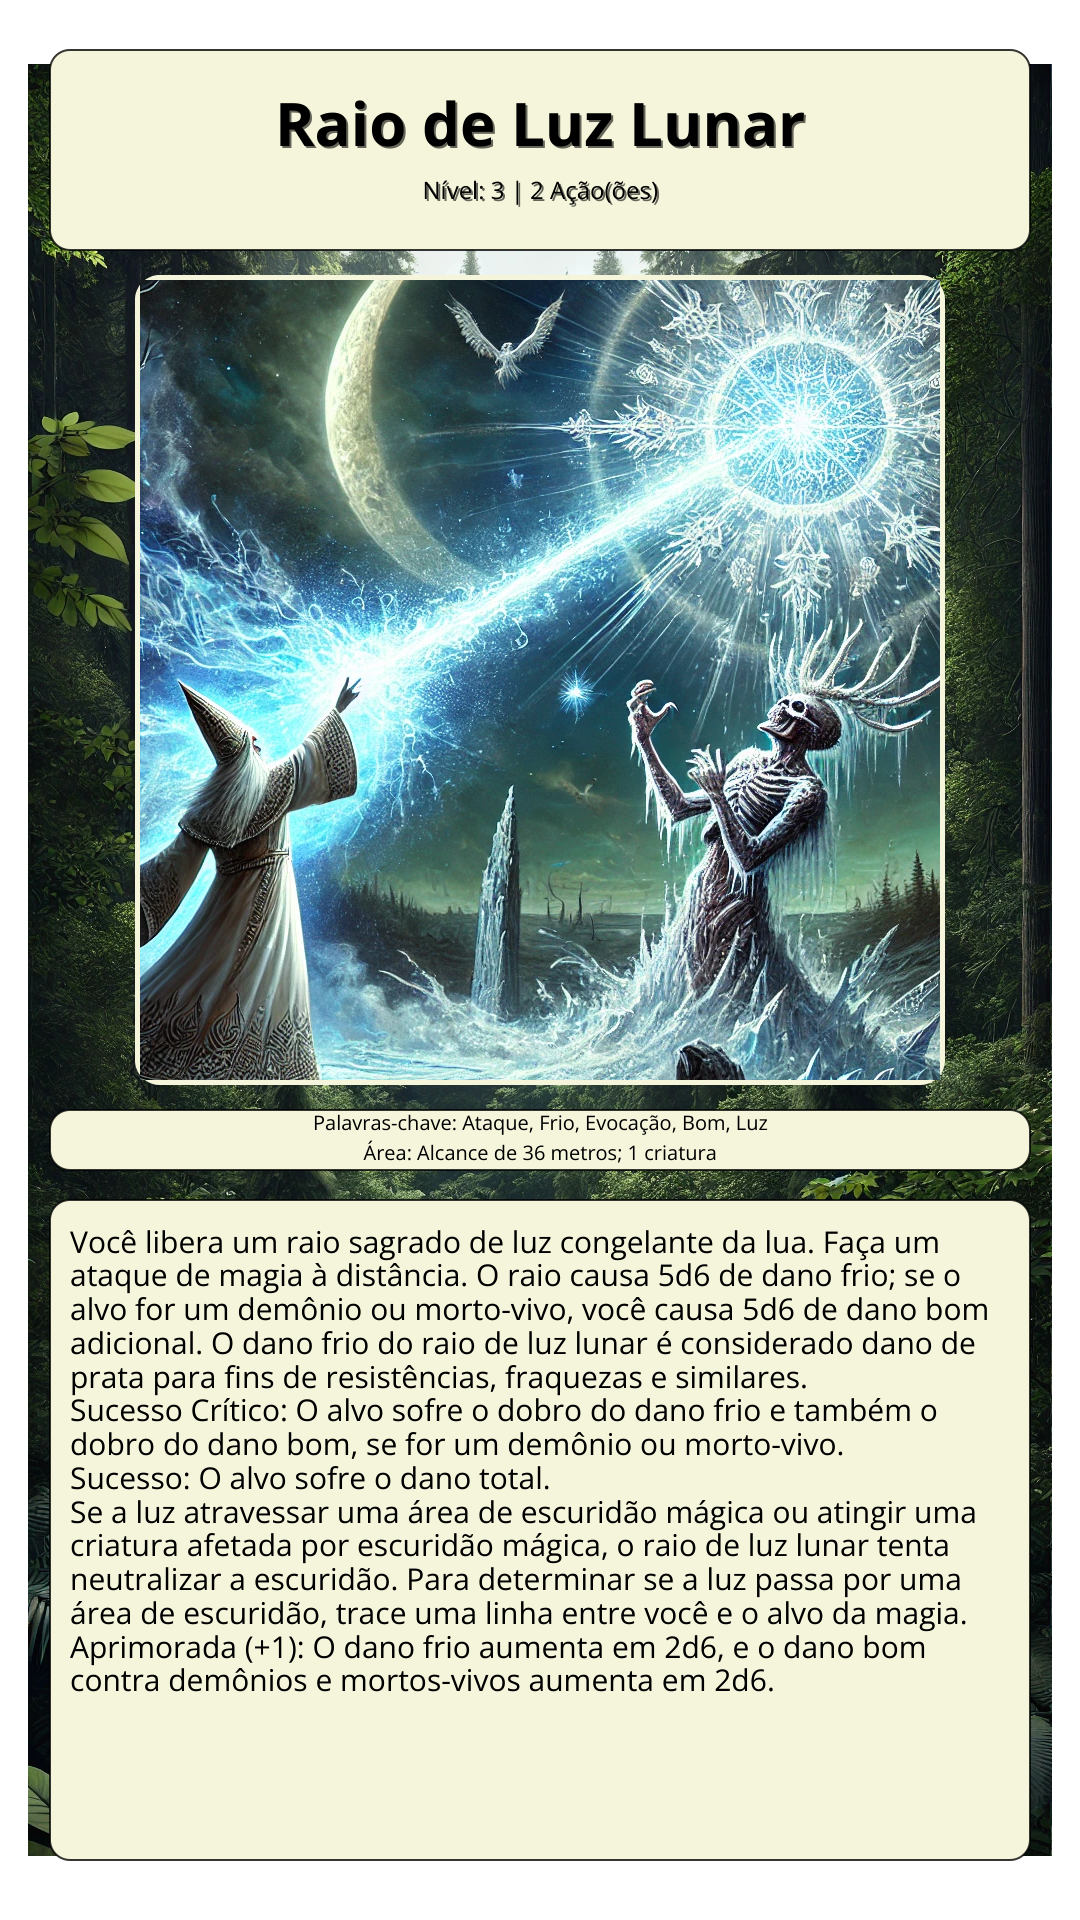
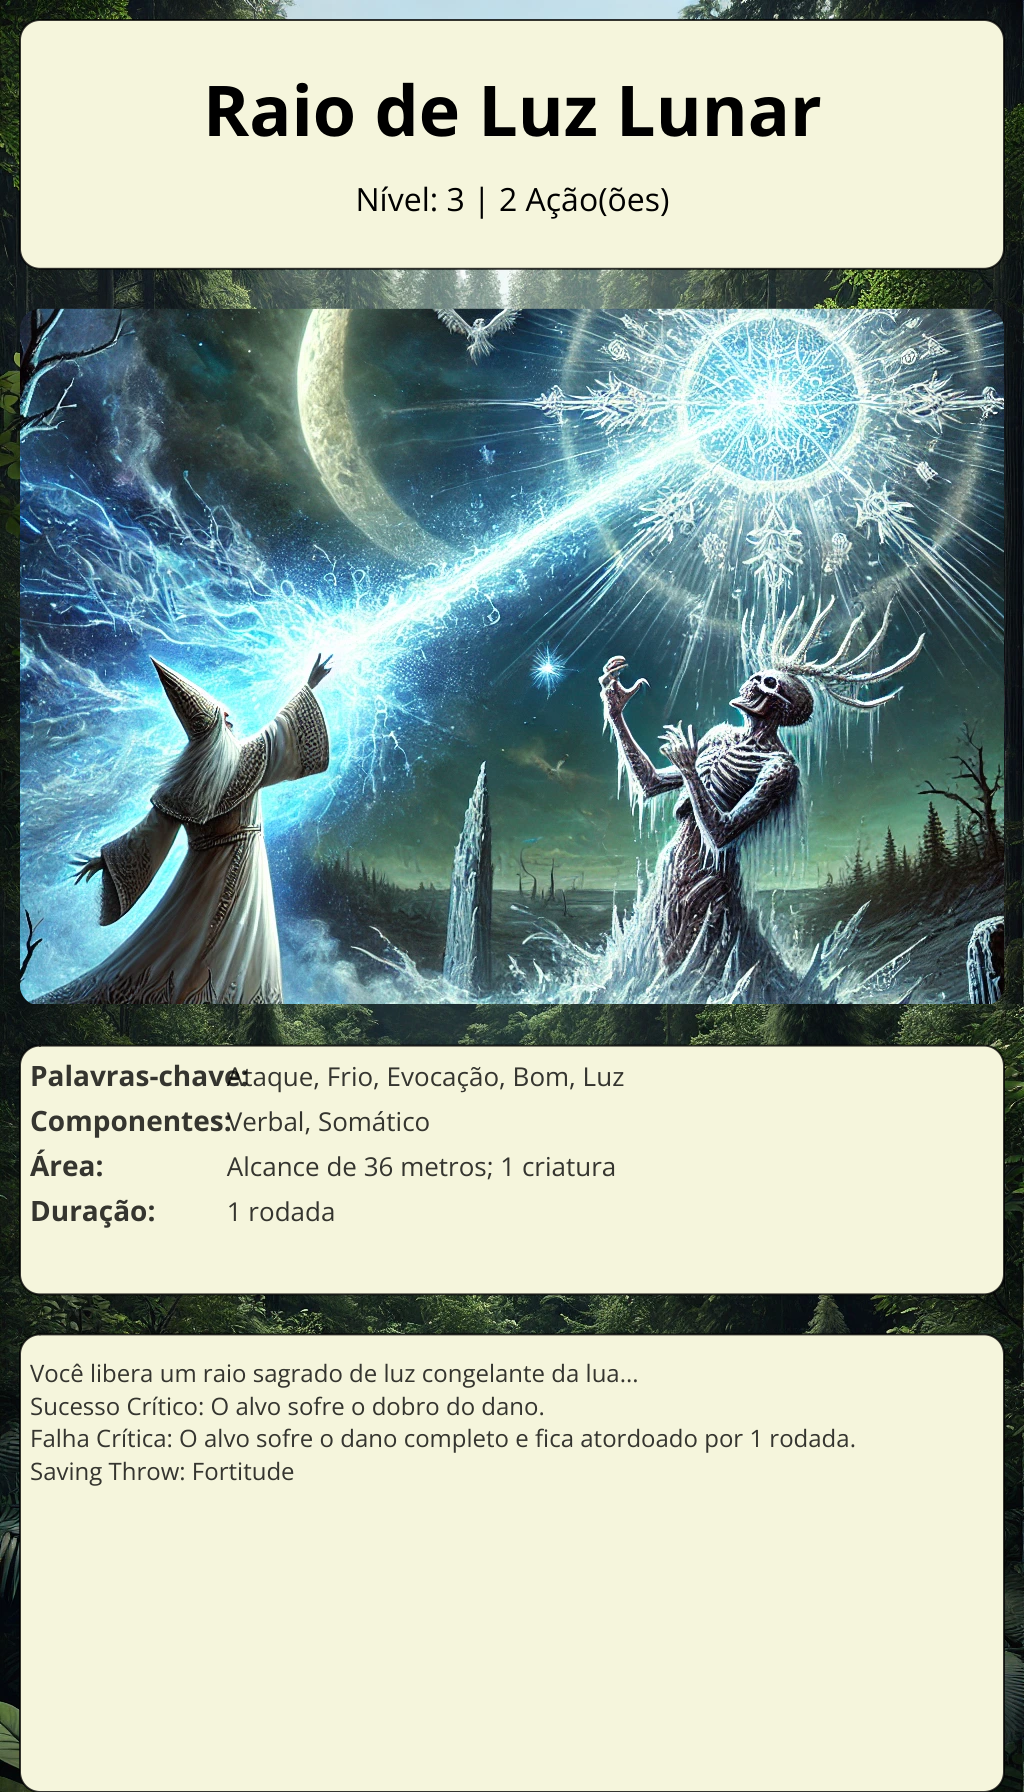
add more fields and layout update

diff --git a/src/main.go b/src/main.go
@@ -4,8 +4,8 @@ import (
 	"fmt"
 	"image"
 	"image/color"
-	_ "image/jpeg" // Adicionado para suportar JPEG
-	_ "image/png"  // Adicionado para suportar PNG
+	_ "image/jpeg"
+	_ "image/png"
 	"log"
 	"os"
 	"strings"
@@ -14,29 +14,36 @@ import (
 )
 
 type Magic struct {
-	Name        string
-	Level       string
-	Actions     int
-	Image       string
-	Keywords    []string
-	Tradition   string
-	Area        string
-	Description string
-	Language    string
+	Name            string
+	Level           string
+	Actions         int
+	Image           string
+	Keywords        []string
+	Tradition       string
+	School          string
+	Area            string
+	Duration        string
+	Components      []string
+	Cost            string
+	SavingThrow     string
+	CriticalSuccess string
+	CriticalFailure string
+	Description     string
+	Language        string
 }
 
-func loadImage(imagePath string) (image.Image, error) {
+func loadImage(imagePath string) (image.Image, int, int, error) {
 	file, err := os.Open(imagePath)
 	if err != nil {
-		return nil, fmt.Errorf("erro ao abrir a imagem: %v", err)
+		return nil, 0, 0, fmt.Errorf("erro ao abrir a imagem: %v", err)
 	}
 	defer file.Close()
 
-	img, _, err := image.Decode(file) // Use o decodificador correto automaticamente
+	img, _, err := image.Decode(file)
 	if err != nil {
-		return nil, fmt.Errorf("erro ao decodificar a imagem: %v", err)
+		return nil, 0, 0, fmt.Errorf("erro ao decodificar a imagem: %v", err)
 	}
-	return img, nil
+	return img, img.Bounds().Dx(), img.Bounds().Dy(), nil
 }
 
 func drawRoundedBox(dc *gg.Context, x, y, width, height float64, bgColor, borderColor color.Color, borderWidth float64) {
@@ -49,17 +56,6 @@ func drawRoundedBox(dc *gg.Context, x, y, width, height float64, bgColor, border
 	dc.SetColor(borderColor)
 	dc.DrawRoundedRectangle(x, y, width, height, radius)
 	dc.Stroke()
-}
-
-func resizeImageToFill(img image.Image, width, height int) image.Image {
-	dc := gg.NewContext(width, height)
-	dc.DrawImageAnchored(img, width/2, height/2, 0.5, 0.5)
-	return dc.Image()
-}
-
-func drawFullBackground(dc *gg.Context, img image.Image, canvasWidth, canvasHeight int) {
-	resizedImg := resizeImageToFill(img, canvasWidth, canvasHeight)
-	dc.DrawImage(resizedImg, 0, 0)
 }
 
 func translateField(field, language string) string {
@@ -80,6 +76,26 @@ func translateField(field, language string) string {
 			"en": "Area",
 			"pt": "Área",
 		},
+		"Duration": {
+			"en": "Duration",
+			"pt": "Duração",
+		},
+		"Components": {
+			"en": "Components",
+			"pt": "Componentes",
+		},
+		"Cost": {
+			"en": "Cost",
+			"pt": "Custo",
+		},
+		"Critical Success": {
+			"en": "Critical Success",
+			"pt": "Sucesso Crítico",
+		},
+		"Critical Failure": {
+			"en": "Critical Failure",
+			"pt": "Falha Crítica",
+		},
 	}
 	if langMap, ok := translations[field]; ok {
 		if translation, ok := langMap[language]; ok {
@@ -87,6 +103,12 @@ func translateField(field, language string) string {
 		}
 	}
 	return field
+}
+
+func resizeImageToFill(img image.Image, width, height int) image.Image {
+	dc := gg.NewContext(width, height)
+	dc.DrawImageAnchored(img, width/2, height/2, 0.5, 0.5)
+	return dc.Image()
 }
 
 func drawTextWithShadow(dc *gg.Context, text, fontPath string, fontSize, x, y, maxWidth float64, textColor, shadowColor color.Color, lineSpacing float64, align gg.Align) {
@@ -99,9 +121,27 @@ func drawTextWithShadow(dc *gg.Context, text, fontPath string, fontSize, x, y, m
 	dc.DrawStringWrapped(text, x, y, 0.5, 0.0, maxWidth, lineSpacing, align)
 }
 
-func drawInfoBox(dc *gg.Context, magic Magic, x, y, width, height float64, fontBoldPath, fontRegularPath string) {
-	drawRoundedBox(dc, x, y, width, height, color.RGBA{245, 245, 220, 255}, color.RGBA{0, 0, 0, 200}, 2.0)
+func createMagicCard(magic Magic, outputFile string) {
+	backgroundPath := fmt.Sprintf("./img/backgrounds/%s.png", strings.ToLower(magic.Tradition))
+	backgroundImage, bgWidth, bgHeight, err := loadImage(backgroundPath)
+	if err != nil {
+		log.Fatalf("Erro ao carregar a imagem de fundo '%s': %v", backgroundPath, err)
+	}
+	dc := gg.NewContext(bgWidth, bgHeight)
+	dc.DrawImage(backgroundImage, 0, 0)
 
+	// Proporções fixas para cada seção
+	padding := 20.0
+	infoBoxHeight := float64(bgHeight) * 0.15
+	imageBoxHeight := float64(bgHeight) * 0.40
+	detailsBoxHeight := float64(bgHeight) * 0.15
+	descriptionBoxHeight := float64(bgHeight) - (infoBoxHeight + imageBoxHeight + detailsBoxHeight + 5*padding)
+
+	fontBoldPath := "fonts/OpenSans-Bold.ttf"
+	fontRegularPath := "fonts/OpenSans-Regular.ttf"
+
+	// Caixa de informações (15%)
+	drawRoundedBox(dc, padding, padding, float64(bgWidth)-2*padding, infoBoxHeight-padding, color.RGBA{245, 245, 220, 255}, color.RGBA{0, 0, 0, 200}, 2.0)
 	name := magic.Name
 	levelActions := fmt.Sprintf("%s: %s | %d %s",
 		translateField("Level", magic.Language),
@@ -109,167 +149,94 @@ func drawInfoBox(dc *gg.Context, magic Magic, x, y, width, height float64, fontB
 		magic.Actions,
 		translateField("Actions", magic.Language),
 	)
-
-	if err := dc.LoadFontFace(fontBoldPath, 60); err != nil {
+	if err := dc.LoadFontFace(fontBoldPath, 70); err != nil {
 		log.Fatalf("Falha ao carregar a fonte %s: %v", fontBoldPath, err)
 	}
-	_, nameHeight := dc.MeasureString(name)
-
-	if err := dc.LoadFontFace(fontRegularPath, 24); err != nil {
+	dc.SetColor(color.Black)
+	dc.DrawStringAnchored(name, float64(bgWidth)/2, padding+infoBoxHeight/3, 0.5, 0.5)
+	if err := dc.LoadFontFace(fontRegularPath, 32); err != nil {
 		log.Fatalf("Falha ao carregar a fonte %s: %v", fontRegularPath, err)
 	}
-	_, levelActionsHeight := dc.MeasureString(levelActions)
+	dc.DrawStringAnchored(levelActions, float64(bgWidth)/2, padding+infoBoxHeight/1.5, 0.5, 0.5)
 
-	totalTextHeight := nameHeight + 35.0 + levelActionsHeight
-	startingY := y + (height-totalTextHeight)/2
-
-	drawTextWithShadow(dc, name, fontBoldPath, 60, x+width/2, startingY, width-40, color.Black, color.RGBA{0, 0, 0, 150}, 1.5, gg.AlignCenter)
-	drawTextWithShadow(dc, levelActions, fontRegularPath, 24, x+width/2, startingY+nameHeight+35.0, width-40, color.Black, color.RGBA{0, 0, 0, 150}, 1.3, gg.AlignCenter)
-}
-
-func drawDetailsBox(dc *gg.Context, magic Magic, x, y, width, height float64, fontBoldPath, fontRegularPath string) {
-	drawRoundedBox(dc, x, y, width, height, color.RGBA{245, 245, 220, 255}, color.RGBA{0, 0, 0, 200}, 2.0)
-
-	// Labels traduzidos
-	keywordsLabel := translateField("Keywords", magic.Language) + ": "
-	areaLabel := translateField("Area", magic.Language) + ": "
-
-	// Conteúdo das keywords e área
-	keywordsContent := strings.Join(magic.Keywords, ", ")
-	areaContent := magic.Area
-
-	// Carregar fontes para os textos regulares
-	if err := dc.LoadFontFace(fontRegularPath, 20); err != nil {
-		log.Fatalf("Falha ao carregar a fonte %s: %v", fontRegularPath, err)
-	}
-
-	// Medir largura dos textos
-	keywordsWidth, _ := dc.MeasureString(keywordsLabel + keywordsContent)
-	areaWidth, _ := dc.MeasureString(areaLabel + areaContent)
-
-	// Definir posições horizontais para centralizar
-	keywordsX := x + (width-keywordsWidth)/2
-	areaX := x + (width-areaWidth)/2
-	currentY := y + 20.0 // Posição inicial vertical com padding
-
-	// Desenhar keywords
-	dc.SetColor(color.Black)
-	dc.DrawString(keywordsLabel+keywordsContent, keywordsX, currentY)
-
-	// Desenhar área
-	currentY += 30.0 // Espaçamento entre as linhas
-	dc.DrawString(areaLabel+areaContent, areaX, currentY)
-}
-
-func drawDescriptionBox(dc *gg.Context, description string, x, y, width, height float64, fontPath string) {
-	bgColor := color.RGBA{245, 245, 220, 255}
-	borderColor := color.RGBA{0, 0, 0, 200}
-	borderWidth := 2.0
-	drawRoundedBox(dc, x, y, width, height, bgColor, borderColor, borderWidth)
-
-	paddingX := 20.0
-	paddingY := 30.0
-	textWidth := width - 2*paddingX
-	startX := x + paddingX
-	startY := y + paddingY
-
-	fontSize := 30.0
-
-	for {
-		if err := dc.LoadFontFace(fontPath, fontSize); err != nil {
-			log.Fatalf("Falha ao carregar a fonte %s: %v", fontPath, err)
-		}
-
-		wrappedText := dc.WordWrap(description, textWidth)
-		totalHeight := float64(len(wrappedText)) * (dc.FontHeight() + 1.5)
-
-		if totalHeight <= height-paddingY {
-			break
-		}
-		fontSize -= 1.0 // Diminui o tamanho da fonte
-		if fontSize < 10.0 {
-			log.Println("Texto muito longo para a caixa, mesmo com fonte mínima.")
-			break
-		}
-	}
-
-	dc.SetColor(color.Black)
-	dc.DrawStringWrapped(description, startX, startY, 0, 0, textWidth, 1.5, gg.AlignLeft)
-}
-
-func createMagicCard(magic Magic, outputFile string) {
-	const canvasWidth int = 1080
-	const canvasHeight int = 1920
-	dc := gg.NewContext(canvasWidth, canvasHeight)
-
-	// Caminho da imagem de fundo
-	backgroundPath := fmt.Sprintf("./img/backgrounds/%s.png", strings.ToLower(magic.Tradition))
-	backgroundImage, err := loadImage(backgroundPath)
-	if err != nil {
-		log.Fatalf("Erro ao carregar a imagem de fundo '%s': %v", backgroundPath, err)
-	}
-	drawFullBackground(dc, backgroundImage, canvasWidth, canvasHeight)
-
-	// Fontes
-	fontBoldPath := "fonts/OpenSans-Bold.ttf"
-	fontRegularPath := "fonts/OpenSans-Regular.ttf"
-
-	// Caixa de Informações (Nome, Level e Actions)
-	infoBoxX := 50.0
-	infoBoxY := 50.0
-	infoBoxWidth := float64(canvasWidth) - 2*infoBoxX
-	infoBoxHeight := 200.0
-	drawInfoBox(dc, magic, infoBoxX, infoBoxY, infoBoxWidth, infoBoxHeight, fontBoldPath, fontRegularPath)
-
-	// Imagem da Magia
-	img, err := loadImage(magic.Image)
+	// Caixa de imagem (40%)
+	imageY := padding + infoBoxHeight + padding
+	img, _, _, err := loadImage(magic.Image)
 	if err != nil {
 		log.Fatalf("Falha ao carregar a imagem da magia: %v", err)
 	}
-	imageWidth := 800
-	imageHeight := 800
-	imageX := (canvasWidth - imageWidth) / 2
-	imageY := int(infoBoxY + infoBoxHeight + 30)
-	drawRoundedBox(dc, float64(imageX), float64(imageY), float64(imageWidth), float64(imageHeight), color.Transparent, color.RGBA{245, 245, 220, 255}, 10.0)
-	dc.DrawImage(resizeImageToFill(img, imageWidth, imageHeight), imageX, imageY)
+	dc.DrawRoundedRectangle(padding, imageY, float64(bgWidth)-2*padding, imageBoxHeight-padding, 20)
+	dc.Clip()
+	resizedImage := resizeImageToFill(img, bgWidth-int(2*padding), int(imageBoxHeight-padding))
+	dc.DrawImage(resizedImage, int(padding), int(imageY))
+	dc.ResetClip()
 
-	// Caixa de Detalhes (Keywords e Área)
-	detailsBoxX := 50.0
-	detailsBoxY := float64(imageY + imageHeight + 30)
-	detailsBoxWidth := float64(canvasWidth) - 2*detailsBoxX
-	detailsBoxHeight := 60.0
-	drawDetailsBox(dc, magic, detailsBoxX, detailsBoxY, detailsBoxWidth, detailsBoxHeight, fontBoldPath, fontRegularPath)
+	// Caixa de detalhes (15%)
+	detailsY := imageY + imageBoxHeight + padding
+	drawRoundedBox(dc, padding, detailsY, float64(bgWidth)-2*padding, detailsBoxHeight-padding, color.RGBA{245, 245, 220, 255}, color.RGBA{0, 0, 0, 200}, 2.0)
+	if err := dc.LoadFontFace(fontBoldPath, 28); err != nil {
+		log.Fatalf("Falha ao carregar a fonte %s: %v", fontBoldPath, err)
+	}
+	boldFont, _ := gg.LoadFontFace(fontBoldPath, 28)
+	regularFont, _ := gg.LoadFontFace(fontRegularPath, 26)
+	fields := []string{
+		fmt.Sprintf("%s: %s", translateField("Keywords", magic.Language), strings.Join(magic.Keywords, ", ")),
+		fmt.Sprintf("%s: %s", translateField("Components", magic.Language), strings.Join(magic.Components, ", ")),
+		fmt.Sprintf("%s: %s", translateField("Area", magic.Language), magic.Area),
+		fmt.Sprintf("%s: %s", translateField("Duration", magic.Language), magic.Duration),
+	}
+	lineHeight := 45.0 // Aumentando o espaçamento vertical
+	currentY := detailsY + 40 // Adicionado padding entre o topo do box e o conteúdo
+	for _, field := range fields {
+		parts := strings.SplitN(field, ":", 2)
+		dc.SetFontFace(boldFont)
+		dc.DrawStringAnchored(parts[0]+":", padding+10, currentY, 0, 0)
+		dc.SetFontFace(regularFont)
+		dc.DrawStringAnchored(parts[1], padding+200, currentY, 0, 0) // Padronizado espaçamento horizontal
+		currentY += lineHeight
+	}
 
-	// Caixa de Descrição
-	descriptionBoxX := 50.0
-	descriptionBoxY := detailsBoxY + detailsBoxHeight + 30
-	descriptionBoxWidth := float64(canvasWidth) - 2*descriptionBoxX
-	descriptionBoxHeight := float64(canvasHeight) - descriptionBoxY - 60.0
-	drawDescriptionBox(dc, magic.Description, descriptionBoxX, descriptionBoxY, descriptionBoxWidth, descriptionBoxHeight, fontRegularPath)
-
-	// Caminho do arquivo de saída na pasta "img/cards"
-	outputFilePath := fmt.Sprintf("./img/cards/%s.png", outputFile)
+	// Caixa de descrição (restante)
+	descriptionY := detailsY + detailsBoxHeight + padding
+	drawRoundedBox(dc, padding, descriptionY, float64(bgWidth)-2*padding, descriptionBoxHeight+padding, color.RGBA{245, 245, 220, 255}, color.RGBA{0, 0, 0, 200}, 2.0)
+	if err := dc.LoadFontFace(fontRegularPath, 24); err != nil {
+		log.Fatalf("Falha ao carregar a fonte %s: %v", fontRegularPath, err)
+	}
+	descriptionText := fmt.Sprintf("%s\n\n%s: %s\n%s: %s\n\n%s: %s",
+		magic.Description,
+		translateField("Critical Success", magic.Language), magic.CriticalSuccess,
+		translateField("Critical Failure", magic.Language), magic.CriticalFailure,
+		translateField("Saving Throw", magic.Language), magic.SavingThrow,
+	)
+	dc.DrawStringWrapped(descriptionText, padding+10, descriptionY+30, 0, 0, float64(bgWidth)-2*padding-20, 1.8, gg.AlignLeft)
 
 	// Salvar o card
+	outputFilePath := fmt.Sprintf("./img/cards/%s.png", outputFile)
 	err = dc.SavePNG(outputFilePath)
 	if err != nil {
 		log.Fatalf("Falha ao salvar o card: %v", err)
 	}
-
 	fmt.Printf("Card salvo em %s\n", outputFilePath)
 }
 
 func main() {
 	magic := Magic{
-		Name:        "Raio de Luz Lunar",
-		Level:       "3",
-		Actions:     2,
-		Image:       "./img/spells/moonlight_ray.png",
-		Keywords:    []string{"Ataque", "Frio", "Evocação", "Bom", "Luz"},
-		Tradition:   "Primal",
-		Area:        "Alcance de 36 metros; 1 criatura",
-		Description: "Você libera um raio sagrado de luz congelante da lua. Faça um ataque de magia à distância. O raio causa 5d6 de dano frio; se o alvo for um demônio ou morto-vivo, você causa 5d6 de dano bom adicional. O dano frio do raio de luz lunar é considerado dano de prata para fins de resistências, fraquezas e similares. \n\nSucesso Crítico: O alvo sofre o dobro do dano frio e também o dobro do dano bom, se for um demônio ou morto-vivo. \nSucesso: O alvo sofre o dano total. \n\nSe a luz atravessar uma área de escuridão mágica ou atingir uma criatura afetada por escuridão mágica, o raio de luz lunar tenta neutralizar a escuridão. Para determinar se a luz passa por uma área de escuridão, trace uma linha entre você e o alvo da magia. \n\n\n\nAprimorada (+1): O dano frio aumenta em 2d6, e o dano bom contra demônios e mortos-vivos aumenta em 2d6.",
-		Language:    "pt",
+		Name:            "Raio de Luz Lunar",
+		Level:           "3",
+		Actions:         2,
+		Image:           "./img/spells/moonlight_ray.png",
+		Keywords:        []string{"Ataque", "Frio", "Evocação", "Bom", "Luz"},
+		Tradition:       "Primal",
+		School:          "Evocação",
+		Area:            "Alcance de 36 metros; 1 criatura",
+		Duration:        "1 rodada",
+		Components:      []string{"Verbal", "Somático"},
+		Cost:            "1 ponto de foco",
+		SavingThrow:     "Fortitude",
+		CriticalSuccess: "O alvo sofre o dobro do dano.",
+		CriticalFailure: "O alvo sofre o dano completo e fica atordoado por 1 rodada.",
+		Description:     "Você libera um raio sagrado de luz congelante da lua...",
+		Language:        "pt",
 	}
 
 	createMagicCard(magic, magic.Name+".png")
